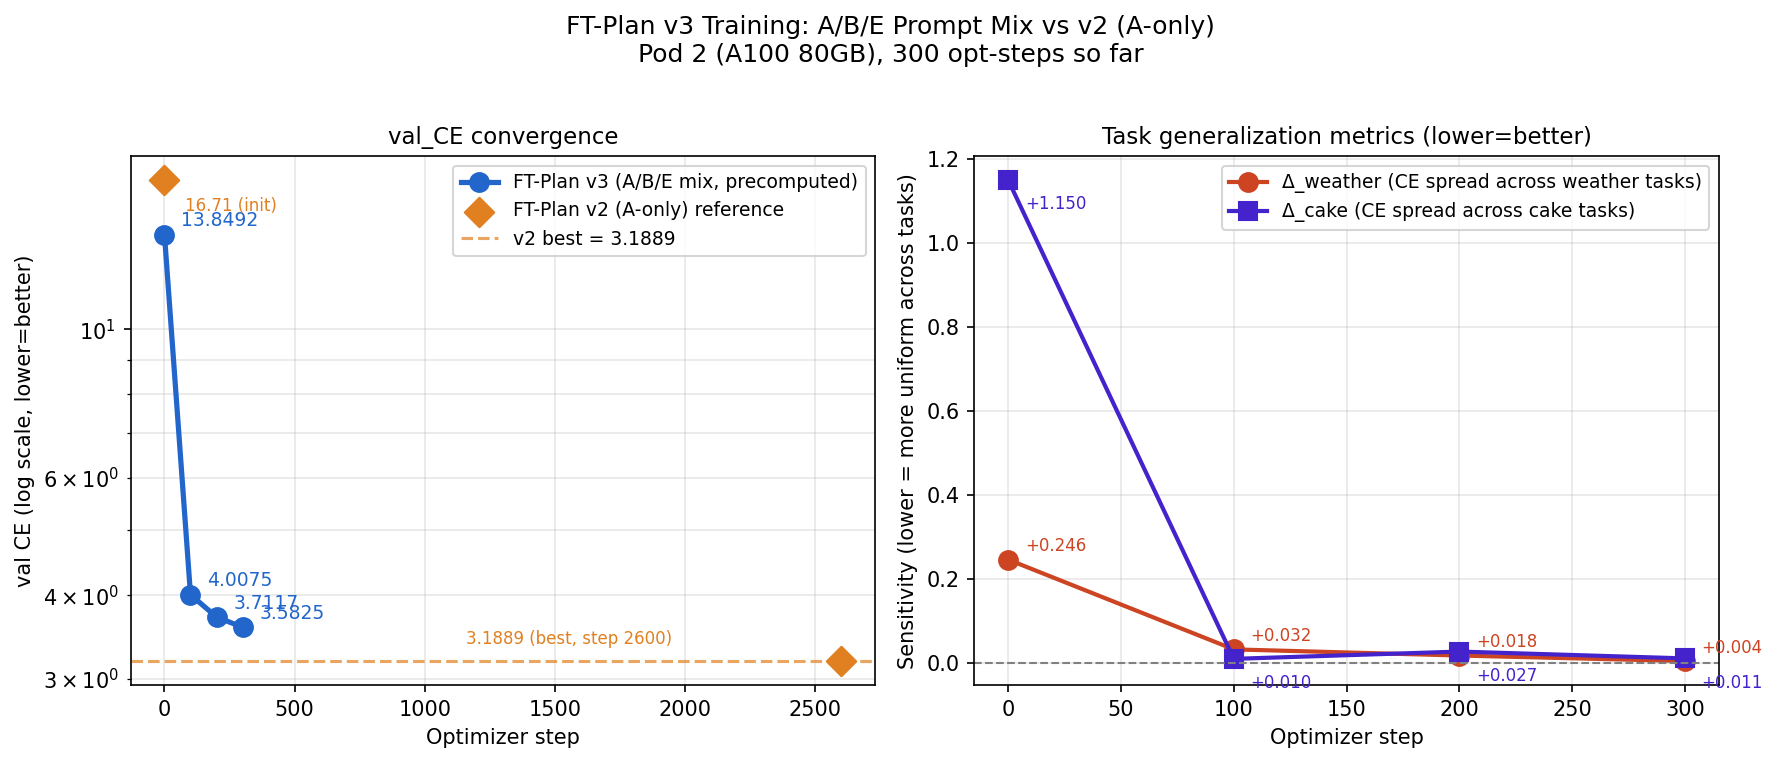
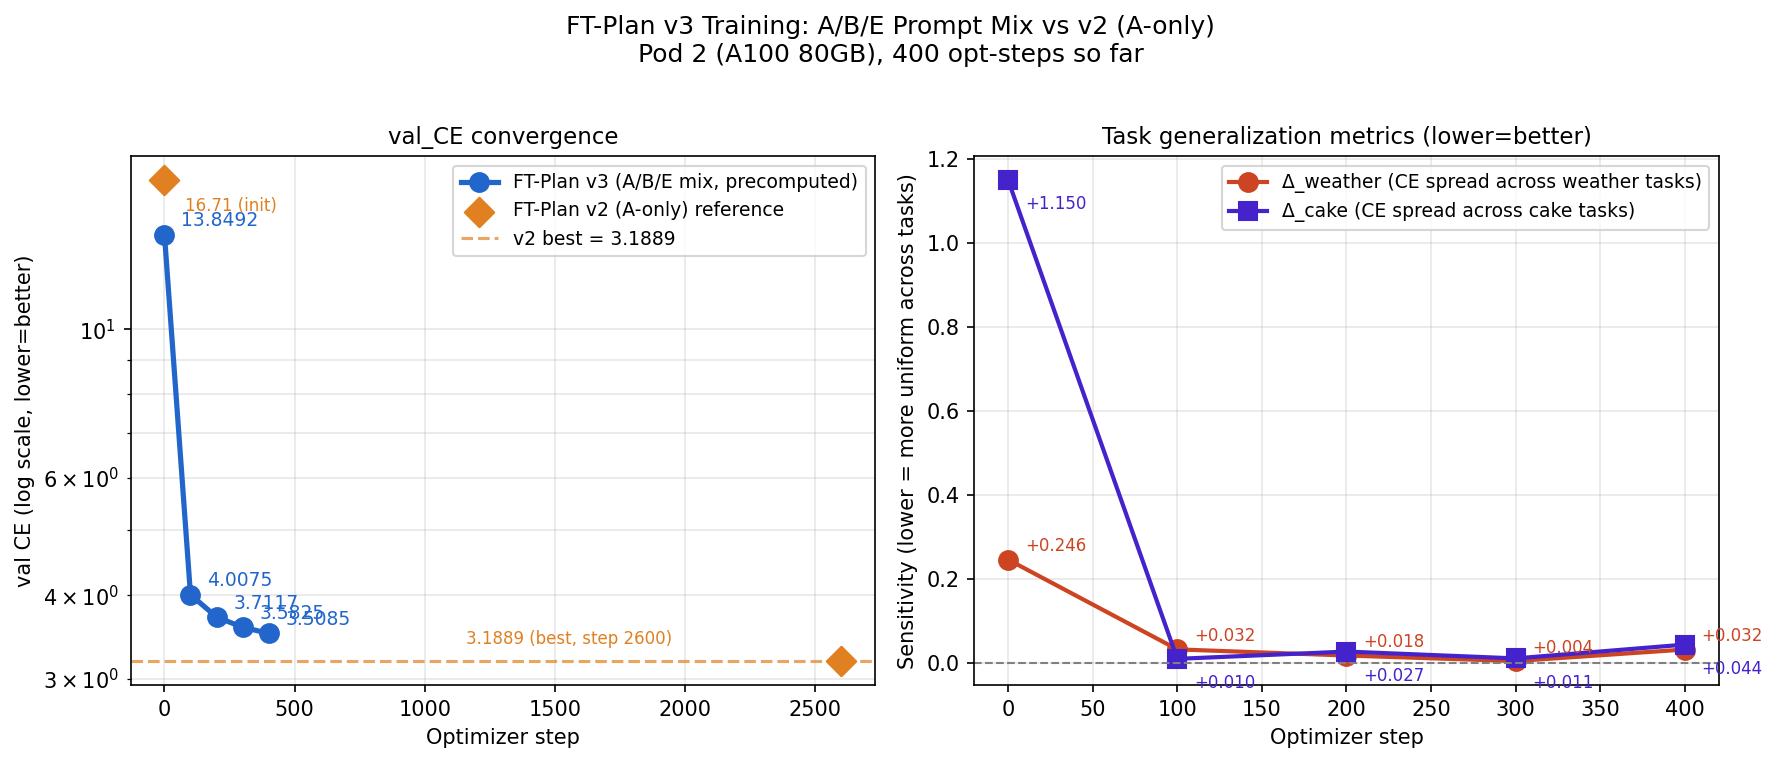
FT-Plan v3 progress: step 400 val_CE=3.5085 (new best)
Steady improvement: 13.85→4.01→3.71→3.58→3.51 across 400 steps.
Still 0.32 above FT-Plan v2 target (3.1889).

diff --git a/chart_ftplan_v3_progress.py b/chart_ftplan_v3_progress.py
@@ -27,6 +27,7 @@ v3_data = [
     {"opt_step": 100, "val_ce": 4.007508395349278,   "deltas": {"weather": 0.03218112945556628,  "cake": 0.009601802825927486}},
     {"opt_step": 200, "val_ce": 3.7116723674185135,  "deltas": {"weather": 0.017545614242553853, "cake": 0.026975650787353533}},
     {"opt_step": 300, "val_ce": 3.582540317055057,   "deltas": {"weather": 0.004390130043030016, "cake": 0.01068383693695063}},
+    {"opt_step": 400, "val_ce": 3.508535266360816,   "deltas": {"weather": 0.03184607028961173,  "cake": 0.04357860565185545}},
 ]
 # Try loading real log
 try:
